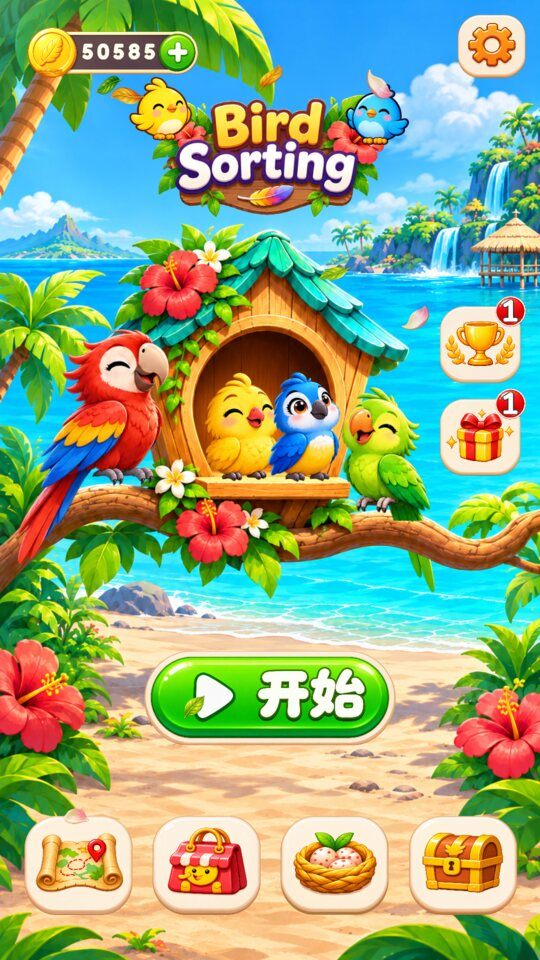
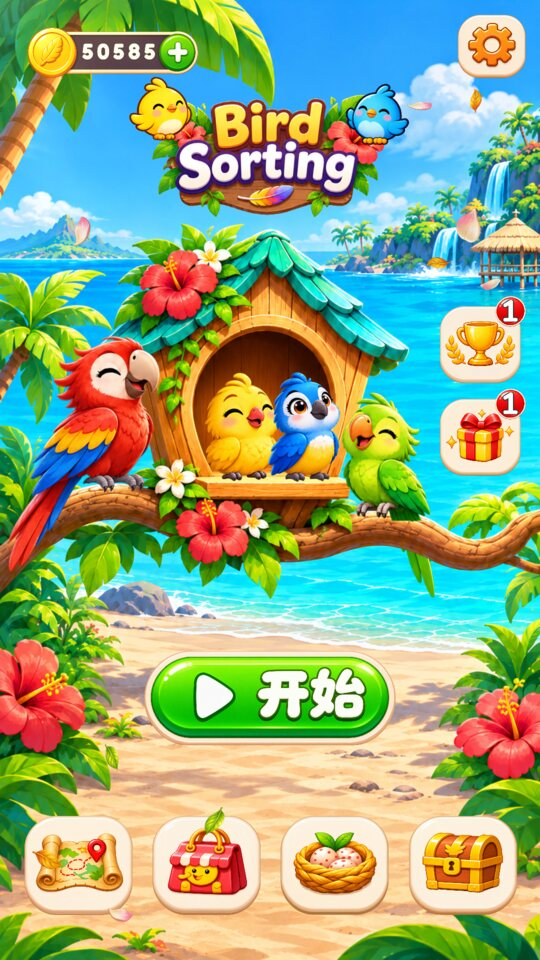
Plant island parrots on their branch

diff --git a/docs/work-log/island-home/report.md b/docs/work-log/island-home/report.md
@@ -1,6 +1,10 @@
 # Island homepage report
 
 ## Current refinement
+- Corrected both parrot perch contacts without changing source frames or display scale. Red contact pivot is `(190,855)`, green is `(671,905)`; per-frame claw rows replace the old padding-based contact assumption. Each pose is anchored before display and on `frame_changed`, and breathing stays about the contact pivot. The red bird shifts onto an unobstructed branch section.
+- Ran the canonical homepage again in both languages and captured 40 sampled motion frames. Personally inspected the full foot-contact sheet; independent review inspected f000, f010, f022 and f039. Both parrots meet the branch in the reviewed samples. No all-eight-poses coverage, exact frame-rate, timing or audio claim is made.
+- The combined icon-and-word alignment request remains open. Localized whole-button candidates are being prepared from existing accepted artwork for user asset review; they are not implemented by this commit.
+
 - Integrated the approved `Bird Sorting` title at the smaller phone-reviewed size. Its transparent cut retains all 166,511 visible original RGB pixels exactly; only transparency and display size change.
 - Replaced the homepage coin HUD with the approved feather-coin / dark-slot / green-plus artwork. The number region is separate from the plus. The plus is retained visually for a future entry; no purchase, recharge or new click action exists.
 - Homepage coins now display plain digits without commas, capped at 99999. The profile balance, economy, saves and values on other pages are not changed.
@@ -26,14 +30,17 @@ Ran Godot 4.7.2 asset import and two focused canonical-homepage captures using `
 - Under `xvfb-run -a -s '-screen 0 1280x2000x24'`: the same Godot binary with `--path PerchSort --audio-driver Dummy --rendering-driver opengl3 --resolution 1080x1920 -- --capture=<output> --lang=<locale> --profile=<fake profile JSON> --wait=0.8`.
 - Chinese input: `{"coins":50585,"language":"zh"}`. English input: `{"coins":1234567,"language":"en"}`.
 - Both runs completed successfully and produced 1080x1920 screenshots. No parse/script/error lines occurred. Both logs contain only the expected virtual-display warning that V-Sync cannot be changed.
-- Personally inspected both real runtime images against the user screenshot and retained design: visible coin numerals are vertically centered, 50585/99999 are clear of the plus, Play/开始 fit their larger surface, and all four smaller bottom faces retain even spacing. The header, house and six entries remain present. These captures were rerun after the vertical-alignment and fill-color correction; no screenshot from the preceding correction is reused. These stills establish layout only, not animation or sound.
+- Personally inspected both real runtime images against the user screenshot and retained design: visible coin numerals are vertically centered, 50585/99999 are clear of the plus, Play/开始 fit their larger surface, and all four smaller bottom faces retain even spacing. The header, house and six entries remain present. These captures were rerun after the parrot contact correction; no screenshot from the preceding correction is reused. These stills establish layout only, not animation or sound.
 - Evidence: `build/island-home/layout-review/{home_zh.png,home_en.png,home_zh.log,home_en.log,import.log}`. Small copies of the current captures and logs are in `evidence/layout-review/` for review, not in the approved-runtime baseline.
 
 Independent review inspected the source diff, the same actual runtime images and capture logs and reported no blocking findings.
 
-**NOT RUN:** regression/core/smoke suites, lint, build/export, navigation interactions, timed animation and audio checks. Static review and two focused captures are not a full pass. Updated regression assertions remain unexecuted. No new approved runtime baseline is created.
+**NOT RUN:** regression/core/smoke suites, lint, build/export, navigation interactions, full animation acceptance and audio checks. The limited parrot contact inspection is described below. Static review and two focused captures are not a full pass. Updated regression assertions remain unexecuted. No new approved runtime baseline is created.
 
 Asset files were not redrawn, replaced or modified for this correction. The completed earlier source-pixel and asset checks remain provenance evidence. Tests and runtime evidence from baseline `e4d98be73f9e24954f25aa1933ed5431b30b2975` are historical and do not verify this correction.
+
+## Parrot runtime evidence
+`build/island-home/layout-review/run-perches.sh` repeats the two focused homepage captures, then uses the canonical scene with `--capture=<unused path> --frames=<perch-motion> --motion --wait=5 --step=0.125 --lang=zh --profile={"coins":50585,"language":"zh"}`. Capture mode prevents save writes. The result is 40 sampled PNG frames; `main.gd` waits after saving each frame, so this is not a proven five-second / fixed-8fps sequence. No frame timestamps or pose IDs were logged. The contact-sheet order is left-to-right, top-to-bottom; each tile shows red then green feet. See `evidence/perch-review/contact-sheet.jpg` and `runtime.log`. Runtime logs have no script/parse errors, only the virtual-display V-Sync warning.
 
 ## User handover
 Push `island-ui-redesign` and keep PR #209 a draft. Ask the user to pull that branch and try the normal Godot homepage. Suggested checks: button/text balance, `Play` / `开始` switching while the homepage remains open, no commas in coins, balances above 99999 displayed as 99999 without changing the real balance, the retained plus, and all six existing entries. Runtime and visual acceptance remain with the user.

diff --git a/docs/work-log/island-home/spec.md b/docs/work-log/island-home/spec.md
@@ -26,5 +26,11 @@ Measured reference-canvas layout:
 - The four bottom navigation faces are 190x174 (about 9 percent below the original 208x191 design, rather than the over-reduced 164x151), centered inside unchanged 208x191 touch targets. Their positions, spacing and callbacks remain unchanged. Reward badges follow the visible face. Settings, the two event controls, house, background, bird frame sequences and other pages remain unchanged.
 - Vertically center the union of the actual numeral ink bounds, rather than the unequal transparent glyph-cell margins. Preserve numeral size, baseline spacing and the separate plus region.
 
+## Parrot perch correction
+The user reported both large parrots floating above the branch. Keep every accepted animation PNG and the original display scale. The macaw contact pivot is `(190,855)` and the green parrot pivot is `(671,905)`. Each of their eight poses uses its measured claw-contact row in `PARROT_FOOT_Y`; the image offset updates on `frame_changed` so breathing and pose changes retain the same planted contact point. The red bird shifts slightly left onto the unobstructed branch crest. Other birds are unchanged.
+
+## Pending complete-button review
+The user requested the icon and word as one centered, localized button image. The triangle is baked into the accepted face. A no-redraw composition using that face and the existing approved words is being prepared for asset review; it is not integrated. The old unrelated green plate must not replace the accepted island face. This pending requirement is separate from the completed parrot correction.
+
 ## Validation and handover
-The user subsequently requested an actual game run and comparison with the reference before committing. This authorizes asset import and focused homepage runtime captures, superseding the earlier no-run request for this correction. Run the canonical homepage in Chinese with an ordinary five-digit balance and in English with an overflow balance, inspect both captures, and report exact commands and logs. Do not expand this into the full regression/core suites, lint, build/export, navigation, timed animation or audio testing. Those remain not run. Runtime visual acceptance still belongs to the user; do not create an approved runtime baseline before approval.
+The user subsequently requested an actual game run and comparison with the reference before committing. This authorizes asset import and focused homepage runtime captures, superseding the earlier no-run request for this correction. Run the canonical homepage in Chinese with an ordinary five-digit balance and in English with an overflow balance, inspect both captures, and report exact commands and logs. Do not expand this into the full regression/core suites, lint, build/export, navigation, timed animation or audio testing. Those remain not run except the subsequently authorized parrot pose-contact inspection: 40 sampled real runtime frames. The configured 0.125-second wait is not a proven fixed capture rate because PNG saving and rendering add time. Runtime visual acceptance still belongs to the user; do not create an approved runtime baseline before approval.
